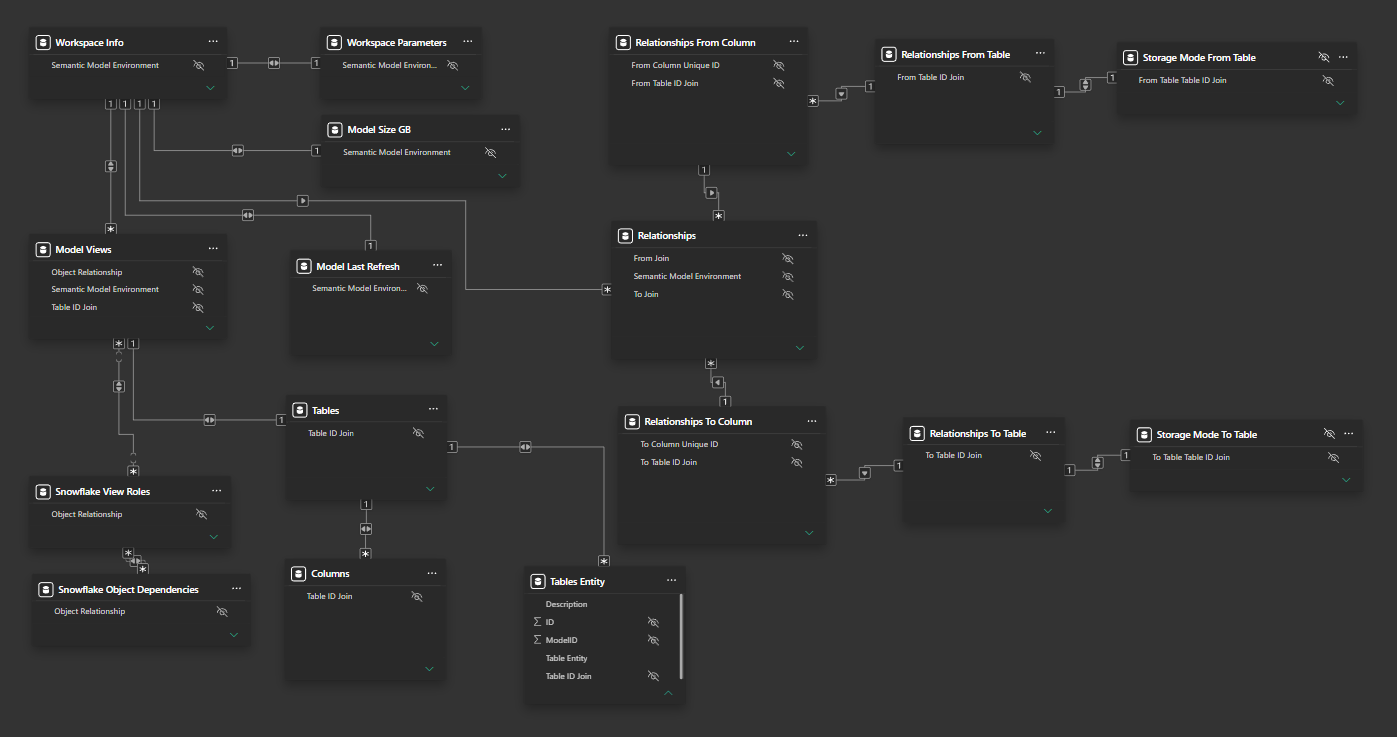
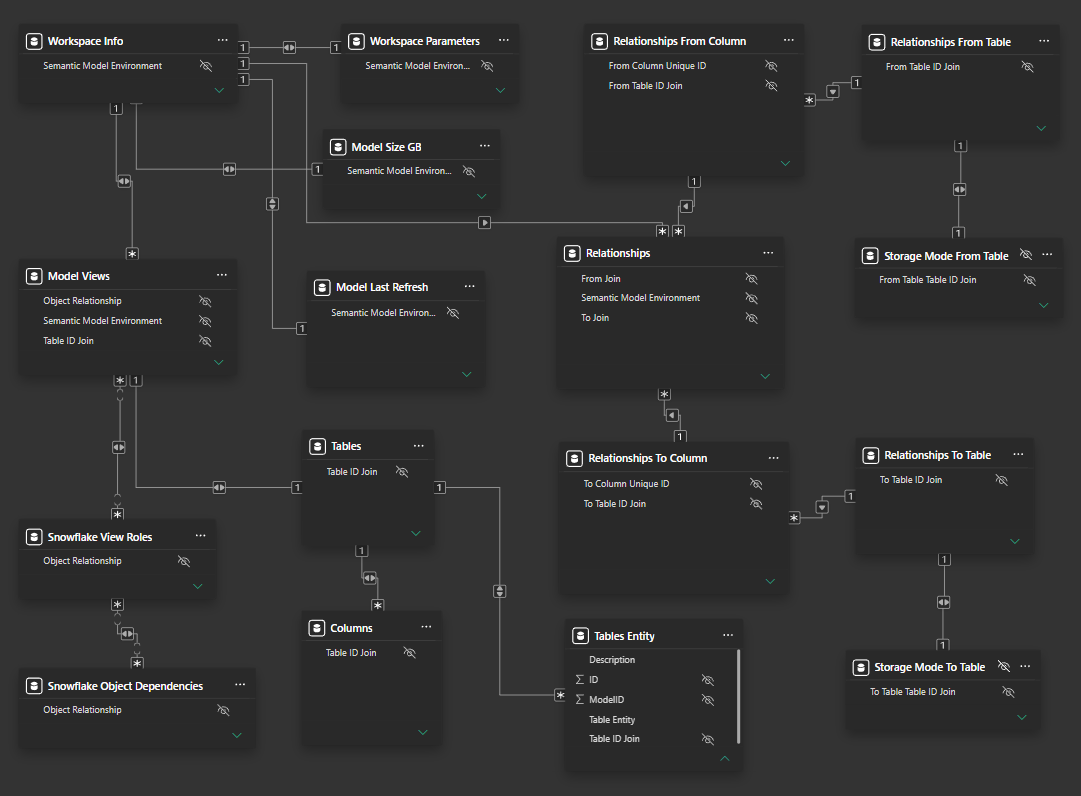
Semantic Model Metadata: Austin's compact model view screenshot

diff --git a/semantic-model-metadata.html b/semantic-model-metadata.html
@@ -14,7 +14,7 @@
 <meta property="og:title" content="Semantic Model Metadata | Austin Lewis">
 <meta property="og:description" content="A Power BI model that reads the metadata of every other model in the workspaces, with 11 automated release checks on every refresh.">
 <meta property="og:url" content="https://austinrlewis.github.io/semantic-model-metadata.html">
-<meta property="og:image" content="https://austinrlewis.github.io/assets/og-case-study.png?v=4">
+<meta property="og:image" content="https://austinrlewis.github.io/assets/og-case-study.png?v=5">
 <meta name="twitter:card" content="summary_large_image">
 <link rel="canonical" href="https://austinrlewis.github.io/semantic-model-metadata.html">
 <link rel="icon" href="assets/favicon.svg" type="image/svg+xml">
@@ -184,7 +184,7 @@
       <li>Snowflake's OBJECT_DEPENDENCIES view maps each view a model reads to the tables behind it, and which roles can read it.</li>
     </ul>
     <figure class="erd">
-<a href="assets/semantic-model-diagram.png" target="_blank" rel="noopener"><img src="assets/semantic-model-diagram.png" width="1397" height="737" loading="lazy" alt="Power BI model view of the Semantic Model Metadata model, 17 tables. Workspace Info is the hub, joined to Workspace Parameters, Model Size GB, Model Last Refresh, Model Views and Relationships. Model Views joins Tables and Snowflake View Roles; Tables joins Columns and Tables Entity. Relationships joins From and To copies of Columns and Tables, each with its storage mode table."></a>
+<a href="assets/semantic-model-diagram.png" target="_blank" rel="noopener"><img src="assets/semantic-model-diagram.png" width="1081" height="796" loading="lazy" alt="Power BI model view of the Semantic Model Metadata model, 17 tables. Workspace Info is the hub, joined to Workspace Parameters, Model Size GB, Model Last Refresh, Model Views and Relationships. Model Views joins Tables and Snowflake View Roles; Tables joins Columns and Tables Entity. Relationships joins From and To copies of Columns and Tables, each with its storage mode table."></a>
     </figure>
     <p class="cap">The real model in Power BI Desktop's model view, all 17 tables. Select it to open full size; on a phone, scroll it sideways.</p>
   </div>

diff --git a/index.html b/index.html
@@ -518,7 +518,7 @@
         <h4>How it's built</h4>
         <p class="note">The real model in Power BI Desktop's model view: 17 tables and 16 relationships, fed by 204 metadata queries. Model, workspace and server names in the code are changed.</p>
         <figure class="erd">
-          <a href="assets/semantic-model-diagram.png" target="_blank" rel="noopener"><img src="assets/semantic-model-diagram.png" width="1397" height="737" loading="lazy" alt="Power BI model view of the Semantic Model Metadata model, 17 tables. Workspace Info is the hub, joined to Workspace Parameters, Model Size GB, Model Last Refresh, Model Views and Relationships. Model Views joins Tables and Snowflake View Roles; Tables joins Columns and Tables Entity. Relationships joins From and To copies of Columns and Tables, each with its storage mode table."></a>
+          <a href="assets/semantic-model-diagram.png" target="_blank" rel="noopener"><img src="assets/semantic-model-diagram.png" width="1081" height="796" loading="lazy" alt="Power BI model view of the Semantic Model Metadata model, 17 tables. Workspace Info is the hub, joined to Workspace Parameters, Model Size GB, Model Last Refresh, Model Views and Relationships. Model Views joins Tables and Snowflake View Roles; Tables joins Columns and Tables Entity. Relationships joins From and To copies of Columns and Tables, each with its storage mode table."></a>
           <figcaption>Select it to open full size.</figcaption>
         </figure>
         <div class="built-grid">
